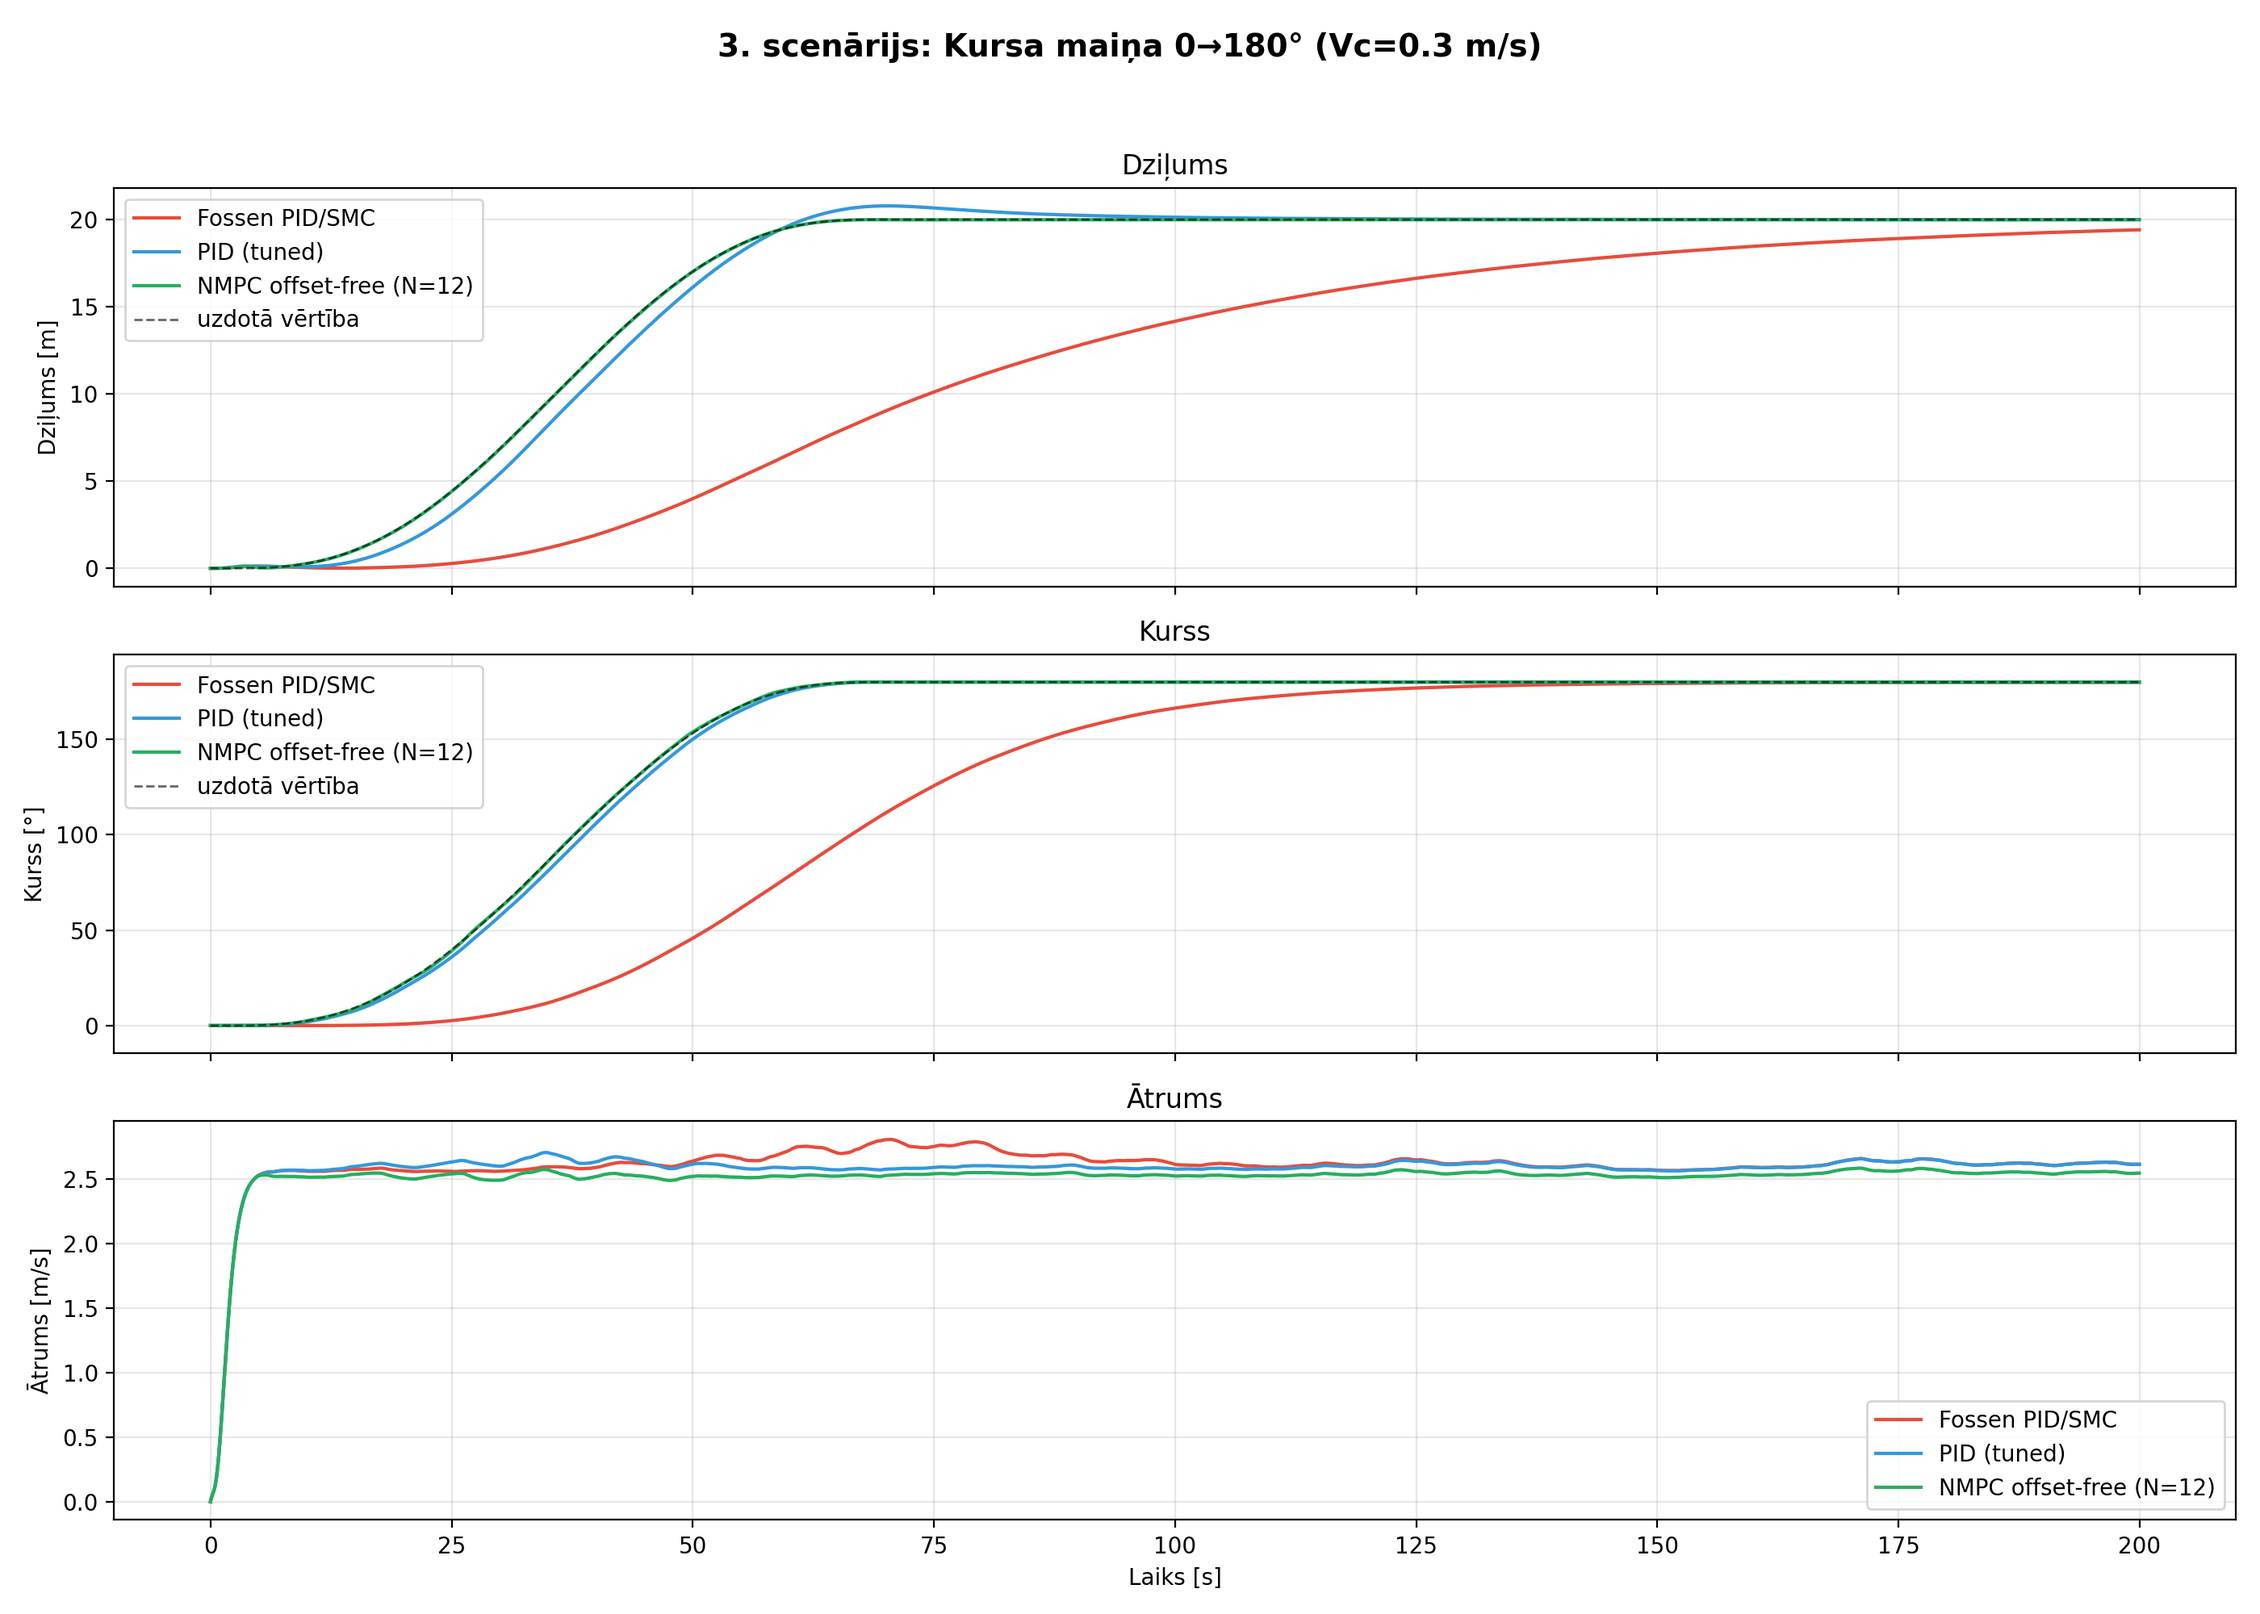
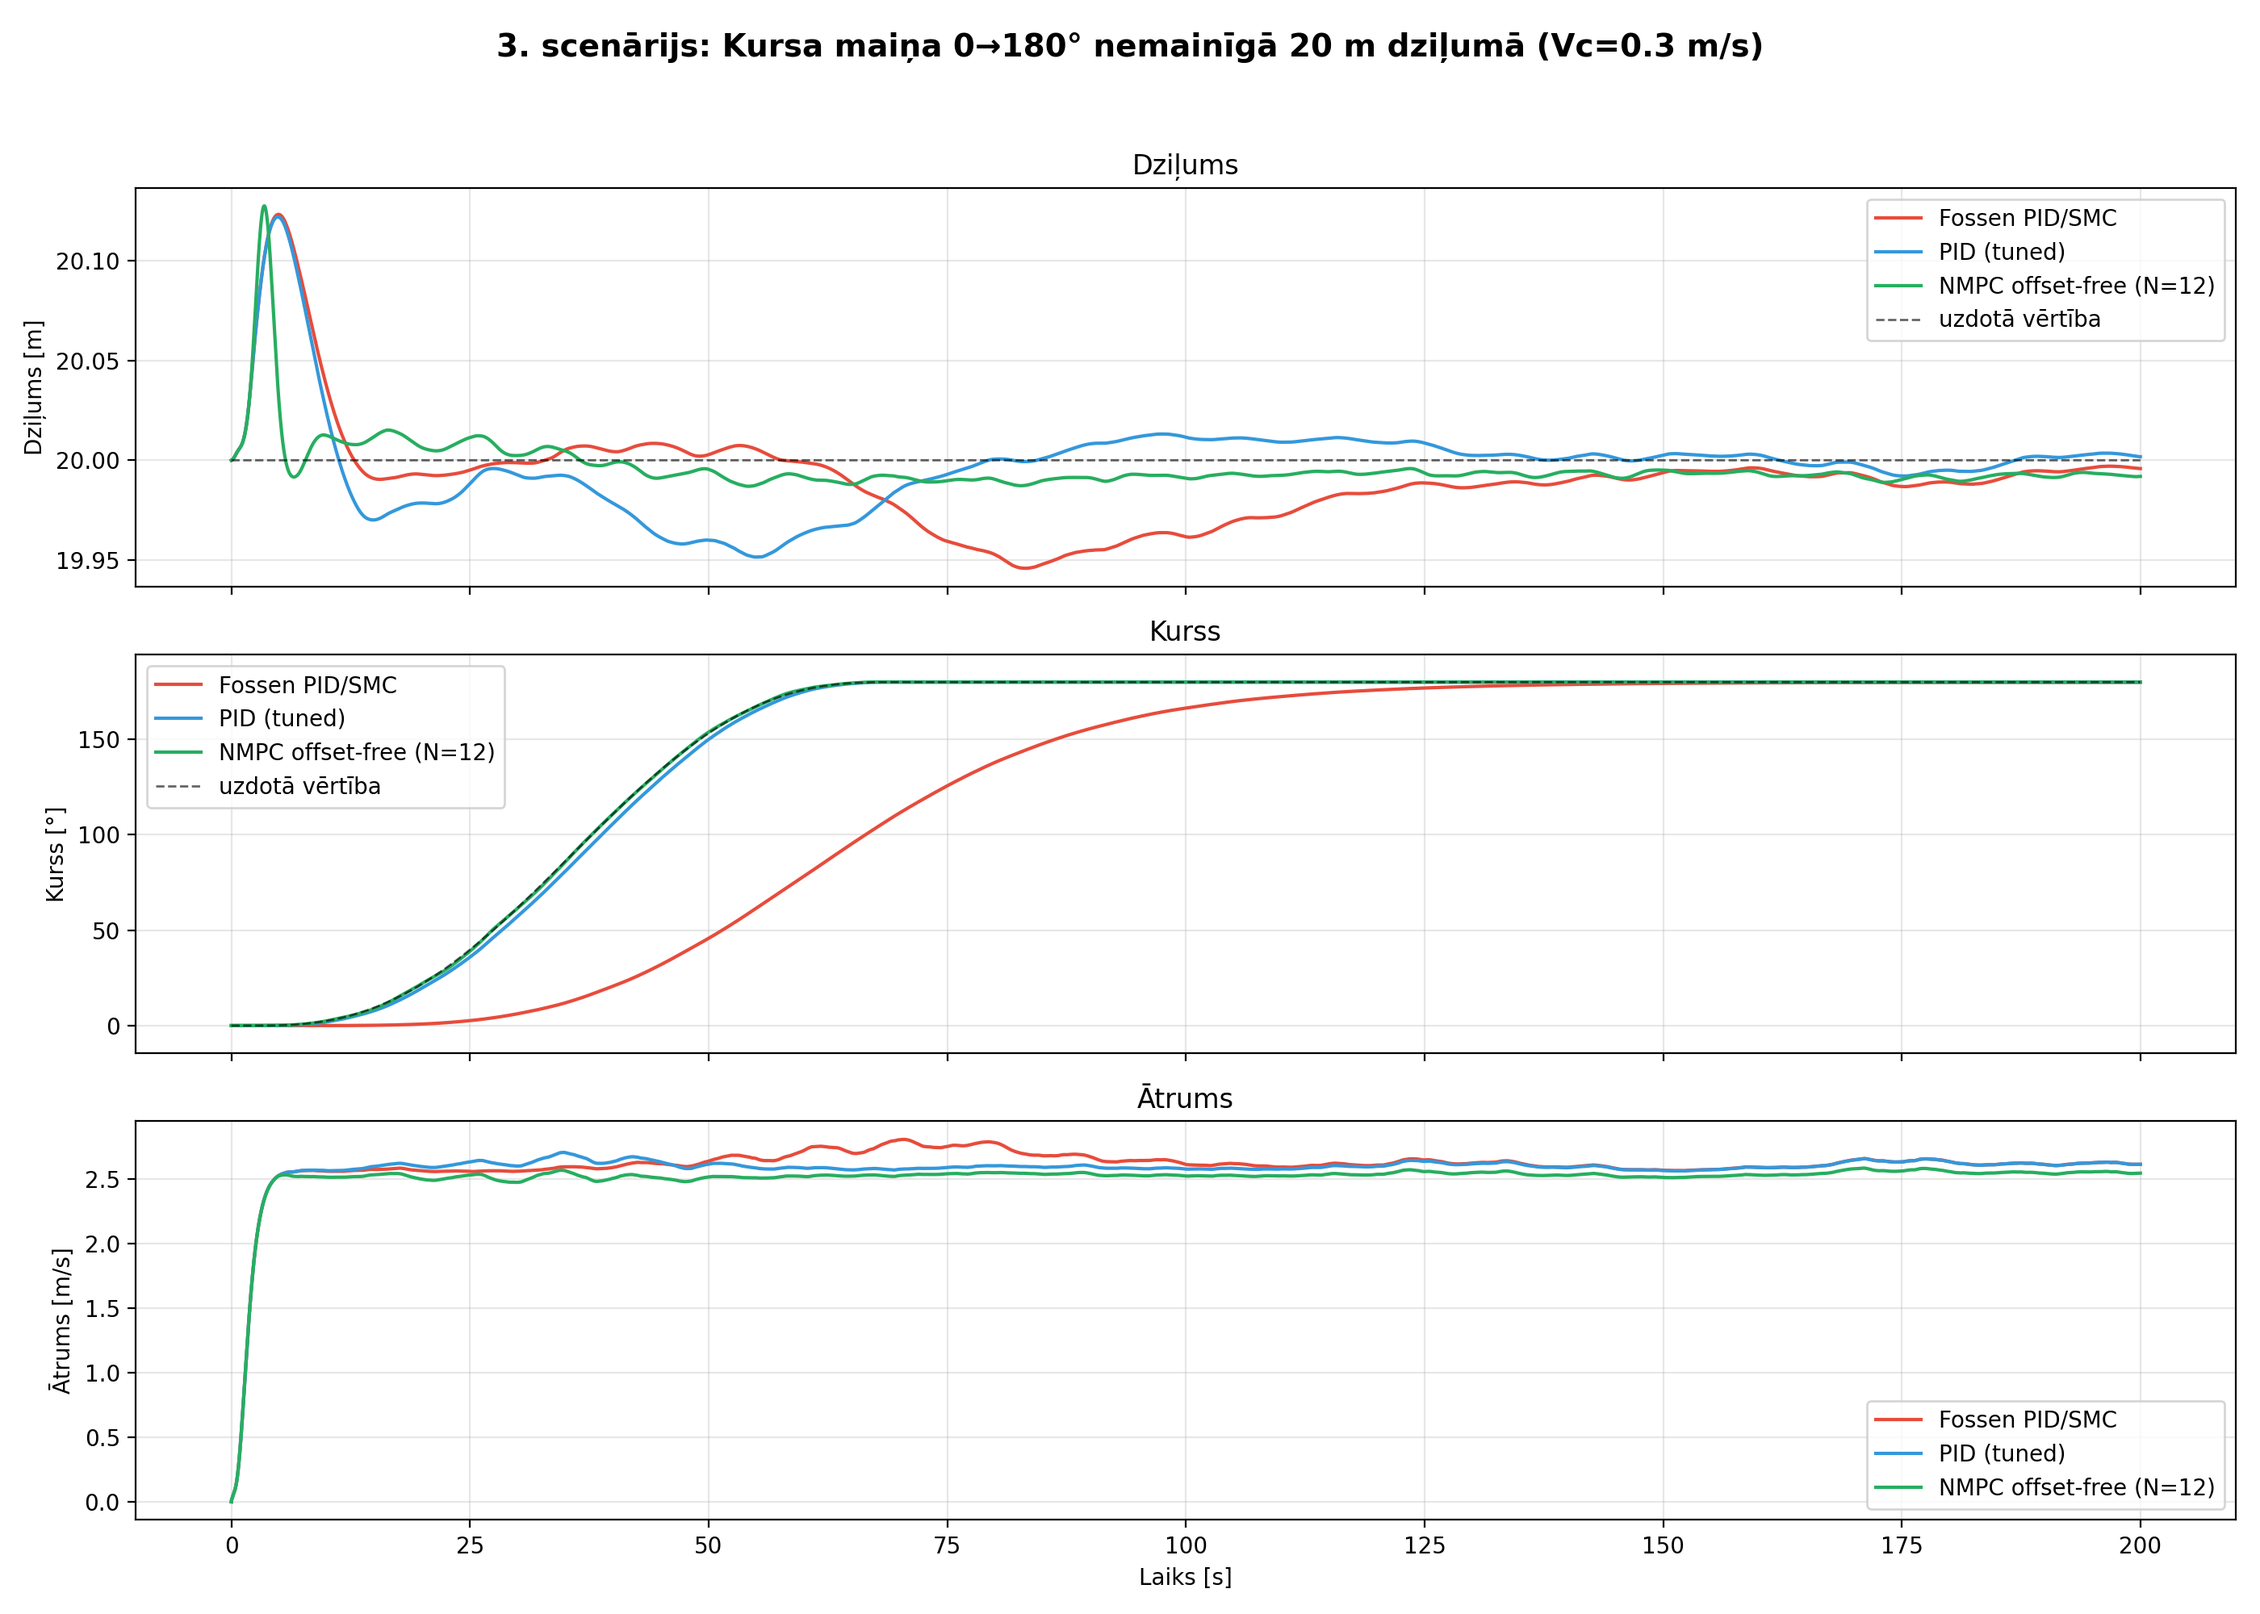
scenario 3 update

diff --git a/experiments/run_remus100_comparison.py b/experiments/run_remus100_comparison.py
@@ -526,7 +526,13 @@ def write_scenario_metrics_csv(out: str) -> str:
     return path
 
 
-def run_three(t_final, z_d, psi_d, Vc, bc, ref, tag, out, title, *, seed=0):
+def run_three(t_final, z_d, psi_d, Vc, bc, ref, tag, out, title, *, seed=0,
+              eta0=None, nu0=None):
+    """Run the three-controller comparison for one scenario.
+
+    ``eta0``/``nu0`` optionally start every controller from the same non-zero
+    initial state (e.g. already at depth), instead of surfaced and at rest.
+    """
     # Every scenario runs against a seeded time-varying current realisation
     # (identical for all three controllers); controllers only know the mean.
     dist = varying_current(seed, t_final, Vc, bc)
@@ -535,22 +541,24 @@ def run_three(t_final, z_d, psi_d, Vc, bc, ref, tag, out, title, *, seed=0):
     print("    Fossen autopilot...")
     a = FossenVehicleAdapter(V_current=Vc, beta_current=bc)
     r1 = a.run_builtin_autopilot(t_final, z_d, psi_d, 1525, Vc, bc,
-                                 disturbance_fn=dist, reference_fn=ref)
+                                 disturbance_fn=dist, reference_fn=ref,
+                                 eta0=eta0, nu0=nu0)
     r1.controller_name = "Fossen PID/SMC"
     results.append(r1)
 
     print("    Tuned PID (50 Hz)...")
     pid = make_pid()
     a2 = FossenVehicleAdapter(V_current=Vc, beta_current=bc)
-    r2 = a2.run(t_final, wrap_pid(pid), ref, sampleTime=0.02, disturbance_fn=dist)
+    r2 = a2.run(t_final, wrap_pid(pid), ref, eta0=eta0, nu0=nu0,
+                sampleTime=0.02, disturbance_fn=dist)
     r2.controller_name = "PID (tuned)"
     results.append(r2)
 
     print("    NMPC...")
     nmpc = make_nmpc(Vc, bc)
     a3 = FossenVehicleAdapter(V_current=Vc, beta_current=bc)
-    r3 = a3.run(t_final, wrap_nmpc(nmpc, ref), ref, sampleTime=0.02,
-                disturbance_fn=dist)
+    r3 = a3.run(t_final, wrap_nmpc(nmpc, ref), ref, eta0=eta0, nu0=nu0,
+                sampleTime=0.02, disturbance_fn=dist)
     r3.controller_name = nmpc.name
     results.append(r3)
 
@@ -591,16 +599,24 @@ def scenario_2(out):
         )
 
 
+S3_DEPTH = 20.0   # scenario 3 runs entirely at this depth
+
+
 def scenario_3(out):
+    """Pure heading manoeuvres: the vehicle starts trimmed at S3_DEPTH and the
+    depth reference is held constant, so nothing in the depth channel (dive
+    pitch, stern-plane action) can contaminate the yaw response."""
     print("\n" + "=" * 70 + "\n  SCENARIO 3: Large heading changes\n" + "=" * 70)
+    eta0 = np.array([0.0, 0.0, S3_DEPTH, 0.0, 0.0, 0.0])
     for j, pd in enumerate([90, 180]):
-        print(f"\n  Heading: 0 -> {pd} deg")
+        print(f"\n  Heading: 0 -> {pd} deg (constant depth {S3_DEPTH:.0f} m)")
         run_three(
-            200, 20, pd, 0.3, 90,
-            smooth_ref([(0, 0), (20, pd)], [2.0], tau_rise=15.0),
+            200, S3_DEPTH, pd, 0.3, 90,
+            smooth_ref([(S3_DEPTH, 0), (S3_DEPTH, pd)], [2.0], tau_rise=15.0),
             f"s3_kurss{pd}", out,
             T("s3_title").format(pd=pd),
             seed=31 + j,
+            eta0=eta0,
         )
 
 

diff --git a/adapters/fossen_adapter.py b/adapters/fossen_adapter.py
@@ -227,7 +227,9 @@ class FossenVehicleAdapter:
                                n_d: float = 1525, V_c: float = 0.5,
                                beta_c: float = 170,
                                disturbance_fn: Callable = None,
-                               reference_fn: Callable = None) -> SimulationResult:
+                               reference_fn: Callable = None,
+                               eta0: np.ndarray = None,
+                               nu0: np.ndarray = None) -> SimulationResult:
         """
         Run with Fossen's built-in depth+heading autopilot for baseline comparison.
 
@@ -238,6 +240,11 @@ class FossenVehicleAdapter:
         autopilot the same time-varying setpoints the other controllers track
         (the vehicle reads ref_z [m] and ref_psi [deg] each step); z_d/psi_d
         then only seed the initial setpoint.
+        ``eta0``/``nu0`` set the initial pose / body velocities (default: zeros,
+        i.e. surfaced and at rest).  When ``eta0`` is given, the autopilot's own
+        depth LP filter and heading reference model are seeded from it as well,
+        so the baseline starts trimmed at that state instead of ramping its
+        internal references up from zero.
         """
         # Create a fresh vehicle with the autopilot configured
         vehicle = remus100('depthHeadingAutopilot', z_d, psi_d, n_d, V_c, beta_c)
@@ -245,9 +252,15 @@ class FossenVehicleAdapter:
         dt = self.sampleTime
         N = int(t_final / dt)
 
-        eta = np.zeros(6, float)
-        nu = vehicle.nu.copy()
+        eta = eta0.copy() if eta0 is not None else np.zeros(6, float)
+        nu = nu0.copy() if nu0 is not None else vehicle.nu.copy()
         u_actual = vehicle.u_actual.copy()
+
+        if eta0 is not None:
+            # Seed the autopilot's internal reference states so it does not fight
+            # a spurious 0 -> eta0 transient over the first steps.
+            vehicle.z_d = float(eta[2])
+            vehicle.psi_d = float(eta[5])
 
         time_log = np.zeros(N)
         eta_log = np.zeros((N, 6))

diff --git a/config.py b/config.py
@@ -87,8 +87,8 @@ _STRINGS: dict[str, dict[str, str]] = {
                    "lv": "1. scenārijs: Standarta dziļums+kurss (Vc=0.5 m/s)"},
     "s2_title":   {"en": "Scenario 2: Current Vc={vc} m/s",
                    "lv": "2. scenārijs: Straume Vc={vc} m/s"},
-    "s3_title":   {"en": "Scenario 3: Heading change 0→{pd}° (Vc=0.3 m/s)",
-                   "lv": "3. scenārijs: Kursa maiņa 0→{pd}° (Vc=0.3 m/s)"},
+    "s3_title":   {"en": "Scenario 3: Heading change 0→{pd}° at constant 20 m depth (Vc=0.3 m/s)",
+                   "lv": "3. scenārijs: Kursa maiņa 0→{pd}° nemainīgā 20 m dziļumā (Vc=0.3 m/s)"},
     "s4_title":   {"en": "Scenario 4: Multi-waypoint mission",
                    "lv": "4. scenārijs: Vairāku punktu misija"},
     "s5_title":   {"en": "Scenario 5: Depth step 0→50 m",
